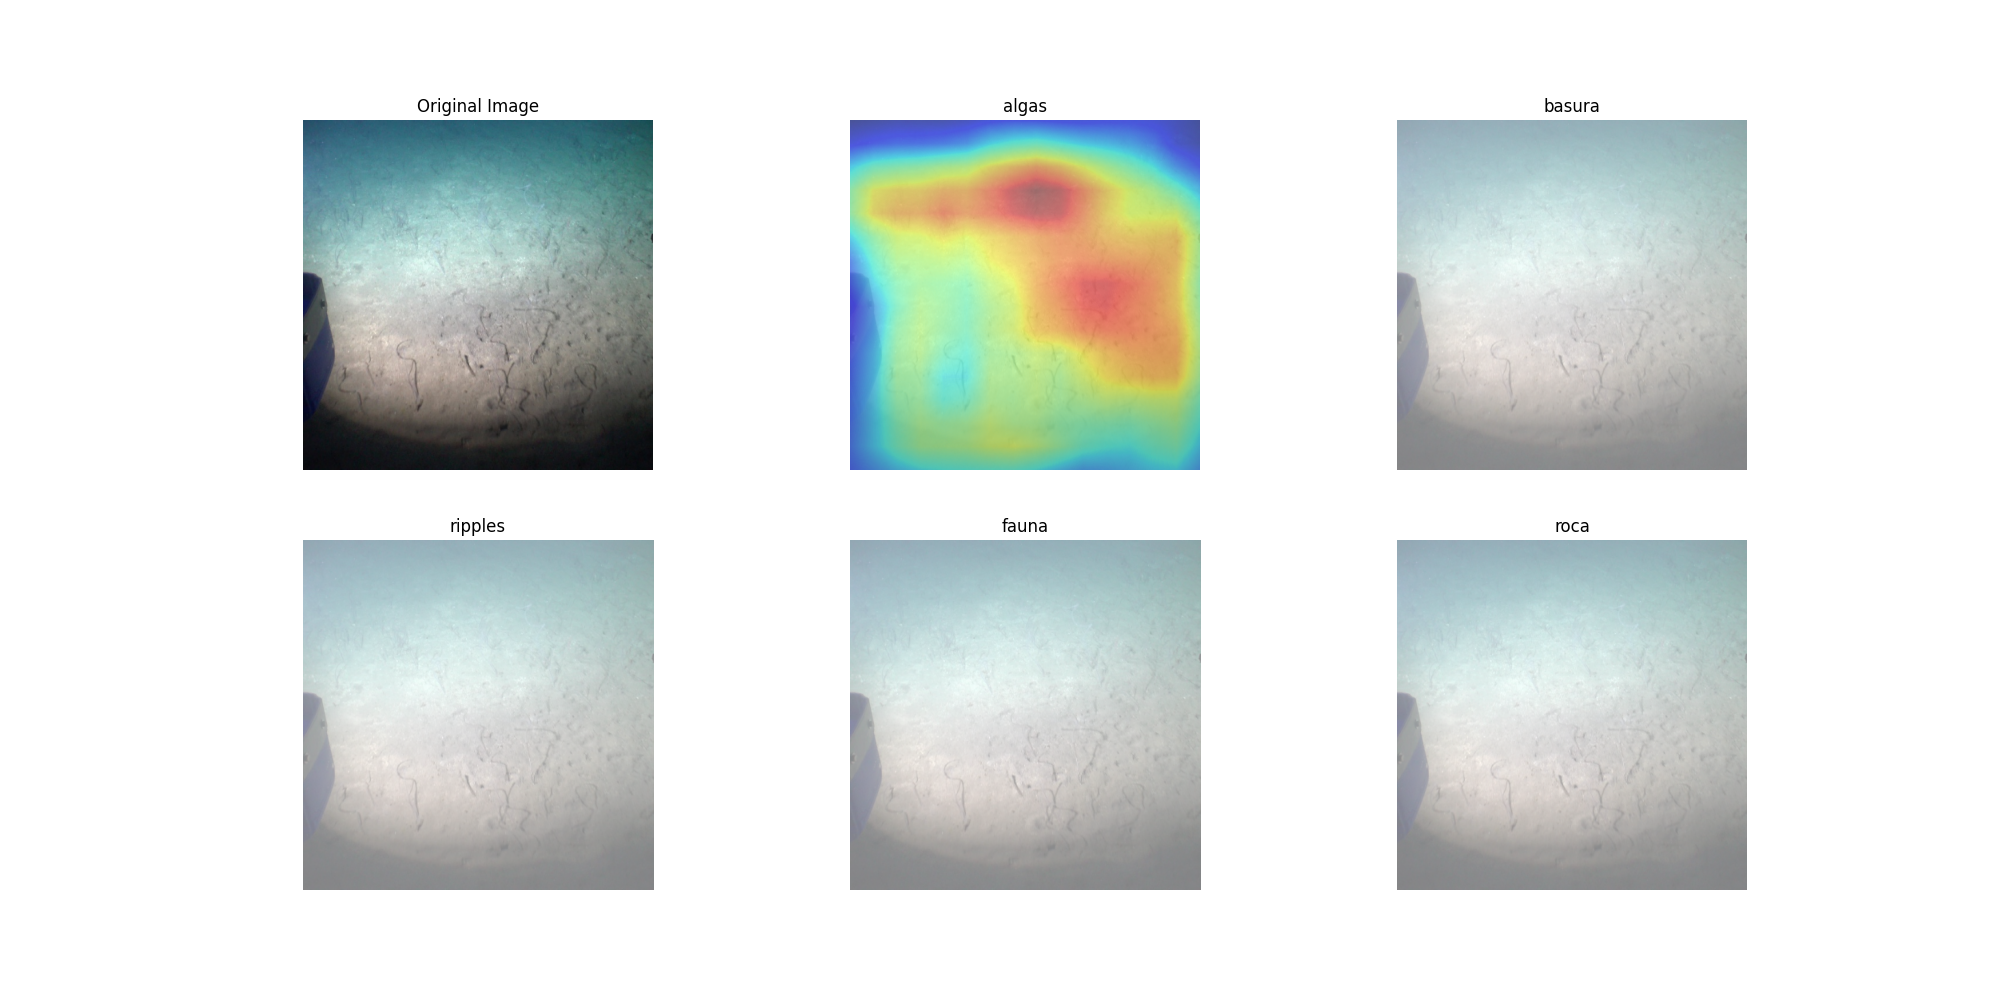
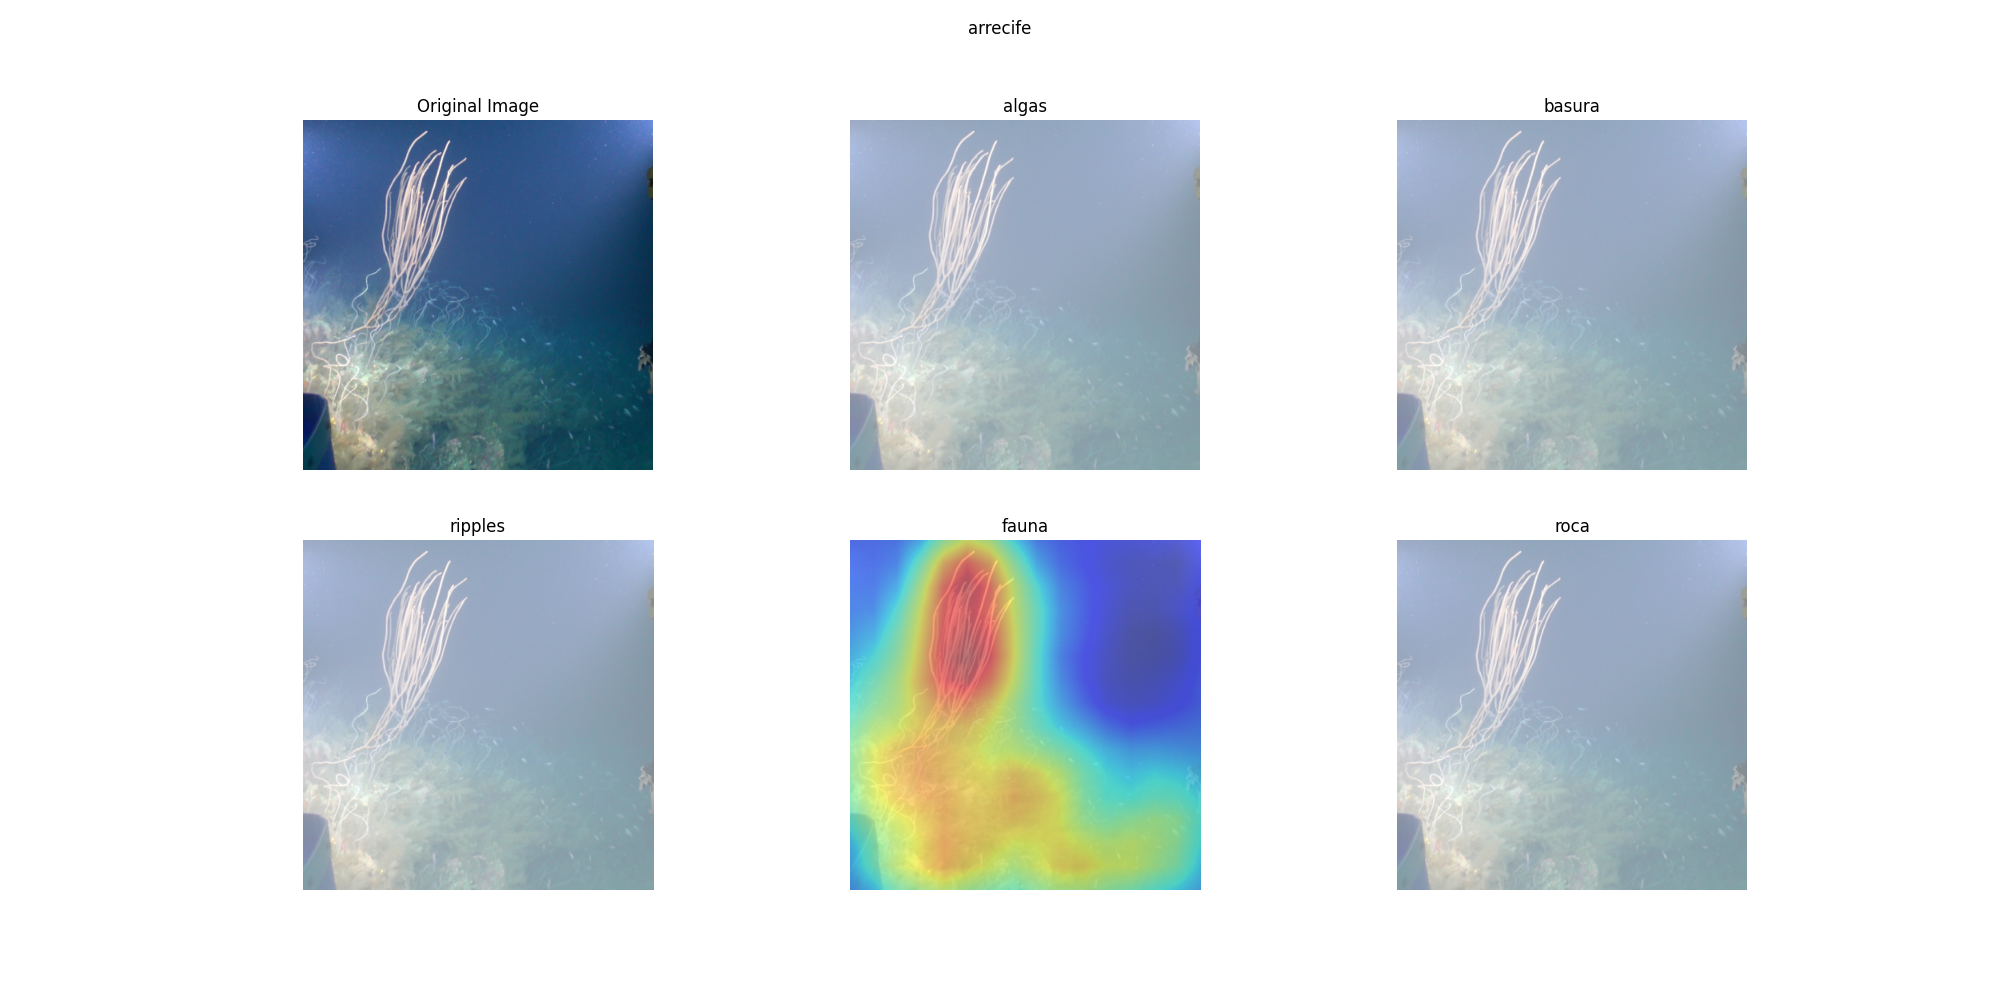
refactor inference.py

diff --git a/analysis_scripts/inference.py b/analysis_scripts/inference.py
@@ -1,5 +1,6 @@
 import random
 from pathlib import Path
+from argparse import ArgumentParser
 
 import cv2
 import torch
@@ -10,42 +11,59 @@ from src.model import MegaEnsemble
 from src.constants import NAME2ID
 from src.data_loading import get_basic_transforms
 
-IMG_SIZE = 512
+
+def get_parser():
+    parser = ArgumentParser()
+    h = '%(type)s (default: %(default)s)'
+
+    parser.add_argument('--img-dir', default='data/images', type=str, help=h)
+    parser.add_argument('--elements-ckpt-dir', default='lightning_logs/resnet18/elements', type=str, help=h)
+    parser.add_argument('--sea-floor-ckpt-dir', default='lightning_logs/mobilenet/sea_floor', type=str, help=h)
+
+    parser.add_argument('--img-size', default=512, type=int, help=h)
+
+    parser.add_argument('--plot-path', default='plots/grid.png', type=str, help=h)
+
+    return parser
 
 
-elements_ckpt_dir = 'lightning_logs/resnet18/elements'
-sea_floor_ckpt_dir = 'lightning_logs/mobilenet/sea_floor'
+if __name__ == '__main__':
 
+    args = get_parser().parse_args()
 
-model = MegaEnsemble({
-    'elements': [str(cp) for cp in Path(elements_ckpt_dir).rglob('*.ckpt')],
-    'sea_floor': [str(cp) for cp in Path(sea_floor_ckpt_dir).rglob('*.ckpt')]
-})
-model.eval()
+    sea_floor_id_to_name = {v: k for k, v in NAME2ID['sea_floor'].items()}
 
-t = get_basic_transforms(img_size=512, grayscale=False)
+    model = MegaEnsemble({
+        'elements': [utils.load_model(cp) for cp in Path(args.elements_ckpt_dir).rglob('*.ckpt')],
+        'sea_floor': [utils.load_model(cp) for cp in Path(args.sea_floor_ckpt_dir).rglob('*.ckpt')]
+    })
+    model.eval()
 
-paths = [str(p) for p in Path('data/images').rglob('*.jpg')]
+    t = get_basic_transforms(img_size=512, grayscale=False)
 
+    paths = [str(p) for p in Path(args.img_dir).rglob('*.jpg')]
 
-while True:
-    path = random.choice(paths)
-    print(path)
-    img = cv2.imread(path)[..., ::-1]
-    img = A.center_crop(img, img.shape[0], 600)
-    X = t(image=img)['image'].unsqueeze(0)
+    while True:
+        path = random.choice(paths)
+        print(path)
+        img = cv2.imread(path)[..., ::-1]
+        img = A.center_crop(img, img.shape[0], 600)
+        X = t(image=img)['image'].unsqueeze(0)
 
-    img = cv2.resize(img, (IMG_SIZE, IMG_SIZE))
+        img = cv2.resize(img, (args.img_size, args.img_size))
 
-    with torch.no_grad():
-        preds = model(X)
+        with torch.no_grad():
+            preds = model(X)
 
-    outs = preds['elements']['probas'].squeeze(0)
-    heatmaps = preds['elements']['heatmap'].squeeze(0)
+        outs = preds['elements']['probas'].squeeze(0)
+        heatmaps = preds['elements']['heatmap'].squeeze(0)
+        sea_floor_probas = preds['sea_floor']['probas'].squeeze(0)
 
-    outs = outs.numpy()
-    heatmaps = heatmaps.numpy()
+        sea_floor_label = sea_floor_id_to_name[sea_floor_probas.argmax().numpy().item()]
 
-    utils.plot_grid(img, list(NAME2ID['elements']), outs, heatmaps)
+        outs = outs.numpy()
+        heatmaps = heatmaps.numpy()
 
-    input('Input a key to next prediction.')
+        utils.plot_grid(img, list(NAME2ID['elements']), outs, heatmaps, sea_floor_label, out_path=args.plot_path)
+
+        input('Input a key to next prediction.')

diff --git a/src/model.py b/src/model.py
@@ -88,11 +88,9 @@ class Model(pl.LightningModule):
 
 class ElementsHeatmapEnsemble(torch.nn.Module):
 
-    def __init__(self, checkpoint_paths: List[str]):
+    def __init__(self, models: List[torch.nn.Module]):
         super().__init__()
-        self.models = torch.nn.ModuleList(
-            Model.load_from_checkpoint(checkpoint_path=cp, map_location='cpu').model for cp in checkpoint_paths
-        )
+        self.models = torch.nn.ModuleList(models)
 
     def forward(self, x):
         outs = []
@@ -128,25 +126,22 @@ class ElementsHeatmapEnsemble(torch.nn.Module):
 
 class SeafloorEnsemble(torch.nn.Module):
 
-    def __init__(self, checkpoint_paths: List[str]):
+    def __init__(self, models: List[torch.nn.Module]):
         super().__init__()
-        self.models = torch.nn.ModuleList(
-            Model.load_from_checkpoint(checkpoint_path=cp, map_location='cpu').model for cp in checkpoint_paths
-        )
+        self.models = torch.nn.ModuleList(models)
 
     def forward(self, x):
         outs = [m(x) for m in self.models]
-        print(len(outs))
         return {'probas': sum(torch.softmax(out, -1) for out in outs)/len(outs)}
 
 
 class MegaEnsemble(torch.nn.Module):
 
-    def __init__(self, checkpoint_paths: Dict[str, List[str]]):
+    def __init__(self, models_dict: Dict[str, List[torch.nn.Module]]):
         super().__init__()
         self.models = torch.nn.ModuleDict({
-            'elements': ElementsHeatmapEnsemble(checkpoint_paths['elements']),
-            'sea_floor': SeafloorEnsemble(checkpoint_paths['sea_floor'])
+            'elements': ElementsHeatmapEnsemble(models_dict['elements']),
+            'sea_floor': SeafloorEnsemble(models_dict['sea_floor'])
         })
 
     def forward(self, x):

diff --git a/src/utils.py b/src/utils.py
@@ -1,11 +1,13 @@
 import matplotlib.pyplot as plt
 
+from src.model import Model
 
-def plot_grid(img, labels, probas, heatmaps, out_path='plots/grid.png'):
+
+def plot_grid(img, labels, probas, heatmaps, sea_floor_label, out_path='plots/grid.png'):
 
     plt.clf()
 
-    _, ax = plt.subplots(nrows=2, ncols=3, figsize=(20, 10))
+    fig, ax = plt.subplots(nrows=2, ncols=3, figsize=(20, 10))
 
     ax[0, 0].imshow(img)
     ax[0, 0].set_title('Original Image')
@@ -23,4 +25,10 @@ def plot_grid(img, labels, probas, heatmaps, out_path='plots/grid.png'):
         if p > 0.5:
             ax[row, col].imshow(heatmap, cmap='jet', alpha=0.5)
 
+    fig.suptitle(sea_floor_label)
+
     plt.savefig(out_path)
+
+
+def load_model(checkpoint_path):
+    return Model.load_from_checkpoint(checkpoint_path=checkpoint_path, map_location='cpu').model
